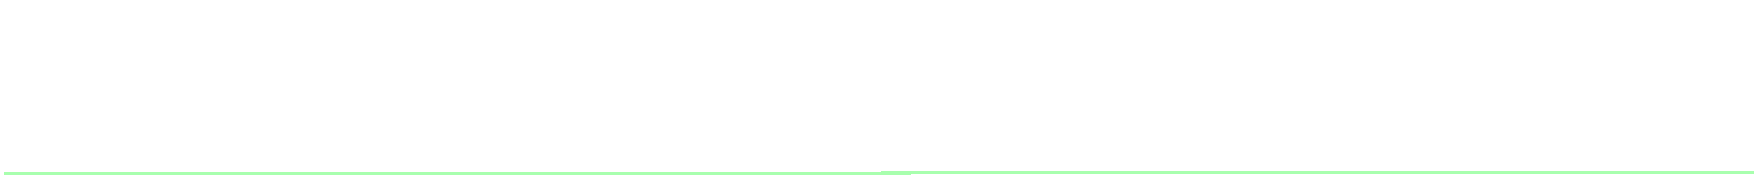
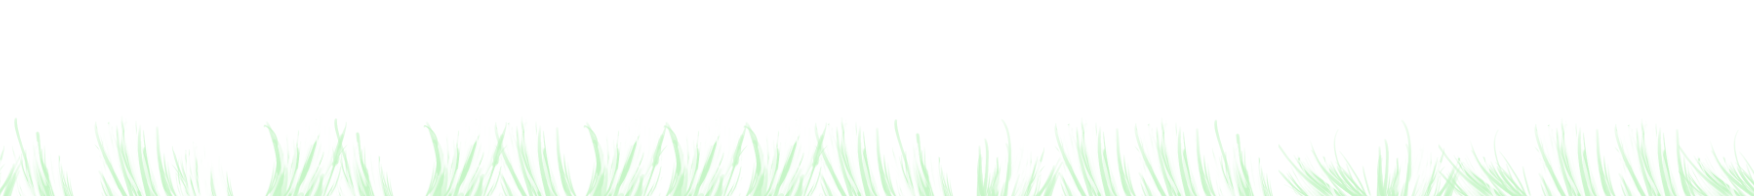
Grass colour

Changed region(s): [[0.0, 0.6735, 1.0, 1.0]]

diff --git a/index.html b/index.html
@@ -65,7 +65,7 @@
     <!-- Profile -->
     <section id="home">
       <div class="mainBox" style="animation-delay: 700ms;">
-        <section class="reveal" id="about">
+        <section class="reveal" id="Hero">
           <div class="about-me-details">
             <div class="profile-image-wrapper">
               <img src="img/k4.jpg" alt="Portrait of Kathrin Luber" class="profile-image">
@@ -95,7 +95,7 @@
             </div>
 
           </div>
-          <img src="img/card2.png" alt="Portrait of Donal MacDiarmid" class="image-surreal">
+
 
         </section>
       </div>
@@ -104,6 +104,7 @@
     <!-- About me -->
     <section class="reveal" id="about">
       <h2 class="section-heading">Über mich</h2>
+      <img src="img/card2.png" alt="Portrait of Donal MacDiarmid" class="image-surreal">
       <div class="about-me-details ">
         <div class="uber-me-element">
           <p>
@@ -125,7 +126,7 @@
             Die Weitergabe von Wissen und das Denken über Therapie hinaus sind mir ein echtes Anliegen – weil gute
             Ausbildung die Grundlage guter Versorgung ist.</p>
           </p>
-          <img src="img/card2.png" alt="Portrait of Donal MacDiarmid" class="image-surreal">
+
         </div>
 
       </div>
@@ -133,6 +134,7 @@
     </section>
     <section class="reveal" id="about">
       <h2 class="section-heading"> Womit kann ich helfen?</h2>
+      <img src="img/card2.png" alt="Portrait of Donal MacDiarmid" class="image-surreal">
       <div class="about-me-details">
         <div class="uber-me-element">
           <p>
@@ -157,10 +159,11 @@
         </div>
 
       </div>
+      <img src="img/Surreal1.jpg" alt="Portrait of Donal MacDiarmid" class="image-surreal">
     </section>
 
     <section class="reveal" id="projects">
-      <img src="img/Surreal1.jpg" alt="Portrait of Donal MacDiarmid" class="image-surreal">
+
     </section>
 
     <!-- Projects -->
@@ -174,7 +177,8 @@
           </div>
           <div class="project-content">
             <h3 class="project-title">Meine therapeutische Haltung</h3>
-            <div class="project-description">
+            <img src="img/card2.png" alt="Portrait of Donal MacDiarmid" class="image-surreal">
+            <div class="uber-me-element">
               <p>Die kognitive Verhaltenstherapie (VT) ist einer der am besten erforschten Therapieansätze überhaupt
                 – gerade für Kinder, Jugendliche und junge Erwachsene. Sie ist lösungsorientiert, aktiv und arbeitet
                 eng mit dem, was im Alltag wirklich passiert.
@@ -197,41 +201,57 @@
           </div>
           <div class="project-content">
             <h3 class="project-title">Wie Verhaltenstherapie bei mir abläuft</h3>
+            <img src="img/card3.png" alt="Portrait of Donal MacDiarmid" class="image-surreal">
 
-            <div class="project-description">
+            <div class="uber-me-element">
               <p class="project-overline">1 Kennenlernen & Verstehen</p>
-              <p>Zu Beginn steht das Kennenlernen:</p> Ich höre zu, frage nach und versuche zu verstehen, wie es dem
-              jungen Menschen geht und was ihn oder sie belastet.<br>
-              Ohne Zeitdruck, ohne vorgefasste Meinungen.</p>
+              <p>Zu Beginn steht das Kennenlernen:</p>
+              <p>Ich höre zu, frage nach und versuche zu verstehen, wie es dem
+                jungen Menschen geht und was ihn oder sie belastet.</p>
+              <p>Ohne Zeitdruck, ohne vorgefasste Meinungen.</p>
             </div>
+            <img src="img/card3.png" alt="Portrait of Donal MacDiarmid" class="image-surreal">
 
-            <div class="project-description">
+            <div class="uber-me-element">
               <p class="project-overline">2 Analyse & Fallkonzeption</p>
               <p>Gemeinsam erarbeiten wir ein Verständnis davon, wie das Problem entstanden ist und was es
                 aufrechterhält
-                – die sogenannte Verhaltensanalyse.<br> Das gibt Orientierung und schafft Aha-Momente.</p>
+                – die sogenannte Verhaltensanalyse.</p>
+              <p>Das gibt Orientierung und schafft Aha-Momente.</p>
             </div>
 
-            <div class="project-description">
+            <img src="img/card2.png" alt="Portrait of Donal MacDiarmid" class="image-surreal">
+
+            <div class="uber-me-element">
               <p class="project-overline">3 Aktive Arbeit an Veränderung</p>
-              <p>Dann wird es konkret:</p> Wir üben neue Gedankenmuster,
-              erproben andere Verhaltensweisen und trainieren Fähigkeiten, die im Alltag wirklich weiterhelfen.
-              Mit Methoden, die zum Alter passen – von Spielen über kreative Übungen bis zu strukturierten
-              Gesprächen.</p>
+              <p>Dann wird es konkret:</p>
+              <p>Wir üben neue Gedankenmuster,
+                erproben andere Verhaltensweisen und trainieren Fähigkeiten, die im Alltag wirklich weiterhelfen.
+              </p>
+              <p>
+                Mit Methoden, die zum Alter passen – von Spielen über kreative Übungen bis zu strukturierten
+                Gesprächen.</p>
             </div>
 
-            <div class="project-description">
+            <img src="img/card2.png" alt="Portrait of Donal MacDiarmid" class="image-surreal">
+
+            <div class="uber-me-element">
               <p class="project-overline">4 Transfer in den Alltag</p>
               <p>Was in der Therapie erarbeitet wird,
-                soll im echten Leben ankommen.<br> Kleinere Hausaufgaben, Experimente und Alltagsübungen sind fester
+                soll im echten Leben ankommen.</p>
+              <p> Kleinere Hausaufgaben, Experimente und Alltagsübungen sind fester
                 Bestandteil
                 – immer angepasst an das, was für die Person machbar und sinnvoll ist.</p>
             </div>
-            <div class="project-description">
+
+            <img src="img/card2.png" alt="Portrait of Donal MacDiarmid" class="image-surreal">
+
+            <div class="uber-me-element">
               <p class="project-overline">5 Stabilisierung & Abschluss</p>
               <p>Am Ende steht die Frage: Wie gelingt es,
-                das Erreichte zu halten?</p> Wie erkenne ich früh,
-              wenn es mir nicht gut geht – und was tue ich dann?</p>
+                das Erreichte zu halten?</p>
+              <p>Wie erkenne ich früh,
+                wenn es mir nicht gut geht – und was tue ich dann?</p>
             </div>
           </div>
           <img>
@@ -245,7 +265,7 @@
           </div>
           <div class="project-content">
             <h3 class="project-title">Methoden, die ich einsetze</h3>
-            <div class="project-description">
+            <div class="uber-me-element">
               <p>Je nach Alter, Thema und Persönlichkeit greife ich auf unterschiedliche verhaltenstherapeutische
                 Techniken zurück. <br>Dazu gehören unter anderem:</p>
               <div class="central-list">
@@ -290,7 +310,7 @@
         <!-- Contact -->
         <section class="reveal flex-center" id="contact">
           <h2 class="section-heading">Kontakt & Erstgespräch!</h2>
-          <div class="project-description">
+          <div class="uber-me-element">
 
             <p>
               Sie sind unsicher, ob meine Praxis das Richtige für Ihr Kind oder für Sie ist?
@@ -299,7 +319,7 @@
               auf
               das erste Therapiegespräch.
             </p>
-            <div class="project-description">
+            <div class="uber-me-element">
               <h3> für Kinder, Jugendliche und junge Erwachsene in Berlin-Marzahn
               </h3><br>
               <h3>Pritzhagener Weg 21, 12685 Berlin
@@ -322,11 +342,11 @@
           <!-- footer Links -->
           <ul role="footerbar" class="footer-menu">
             <li role="Impressum" class="nav-item fade-in-element" style="animation-delay: 100ms;">
-              <a href="impressum.html" role="footeritem" class="nav-link">Impressum</a>
+              <a href="impressum.html" role="footeritem" class="nav-link">Impressum || Datenschutz </a>
             </li>
-            <li role="Datenschutz" class="nav-item fade-in-element" style="animation-delay: 150ms;">
+            <!--<li role="Datenschutz" class="nav-item fade-in-element" style="animation-delay: 150ms;">
               <a href="datenschutz.html" role="footeritem" class="nav-link">Datenschutz</a>
-            </li>
+            </li>-->
           </ul>
         </footer>
 

diff --git a/impressum.html b/impressum.html
@@ -28,22 +28,22 @@
       <!-- Navigation Links -->
       <ul role="menubar" class="nav-menu">
         <li role="presentation" class="nav-item fade-in-element" style="animation-delay: 100ms;">
-          <a href="#home" role="menuitem" class="nav-link">HOME</a>
+          <a href="index.html" role="menuitem" class="nav-link">HOME</a>
         </li>
         <li role="presentation" class="nav-item fade-in-element" style="animation-delay: 150ms;">
-          <a href="#about" role="menuitem" class="nav-link">EXPERTISE</a>
+          <a href="index.html#about" role="menuitem" class="nav-link">EXPERTISE</a>
         </li>
         <li role="presentation" class="nav-item fade-in-element" style="animation-delay: 200ms;">
-          <a href="#projects" role="menuitem" class="nav-link">APPROACH</a>
+          <a href="index.html#projects" role="menuitem" class="nav-link">APPROACH</a>
         </li>
         <!--<li role="presentation" class="nav-item fade-in-element" style="animation-delay: 200ms;">
           <a href="#faqs" role="menuitem" class="nav-link">FAQs</a> -->
         </li>
         <li role="presentation" class="nav-item fade-in-element" style="animation-delay: 250ms;">
-          <a href="#contact" role="menuitem" class="nav-link">CONTACT</a>
+          <a href="index.html#contact" role="menuitem" class="nav-link">CONTACT</a>
         </li>
         <li role="presentation" class="nav-item fade-in-element" style="animation-delay: 250ms;">
-          <a href="/en/" role="menuitem" class="nav-link"> <img src="img//gb.svg" alt="English" width="30"></a>
+          <a href="english.html" role="menuitem" class="nav-link"> <img src="img//gb.svg" alt="English" width="30"></a>
         </li>
         <!-- <li role="presentation" class="nav-item fade-in-element" style="animation-delay: 300ms;">
           <a href="files/cv.pdf" target="_blank" class="button"><span class="button-text">CV</span></a>

diff --git a/build/index.css b/build/index.css
@@ -28,7 +28,7 @@ html {
 }
 
 body {
-  background: url("../img/Surreal6.png")no-repeat, var(--hero-fade);
+  background: url("../img/Surreal6.png")no-repeat, white;
   background-position: right top, center;
   background-size: 50% auto;
   font-family: "Nunito", sans-serif;
@@ -770,10 +770,6 @@ footer {
   .section-heading,
   .project-title {
     font-size: 19.2px;
-  }
-
-  .project-description {
-    /*background-color: #74e6a0; */
   }
 
   .project-content {
